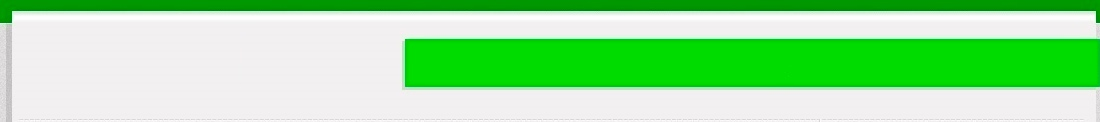
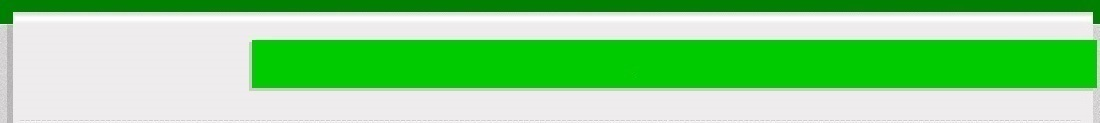
Fixed display issues.

Changed region(s): [[0.0, 0.0, 1.0, 1.0]]

diff --git a/css/style.css b/css/style.css
@@ -28,8 +28,8 @@ p a {
 
 iframe {
     display: block;
-    width:889px;
-    height:667px;
+    width:800px; /*889px;*/
+    height:600px; /*667px;*/
     margin:0 auto;
     /*-webkit-transform:scale(0.5);-moz-transform-scale(0.5);*/
 }
@@ -46,7 +46,7 @@ iframe {
 
 #arcadeheader {
 	background: url(../images/bg-header-expanded.jpg) no-repeat center top;
-	height: 122px;
+	height: 123px;
 	margin: 0 auto;
 	overflow: hidden;
 	width: 1100px;
@@ -333,7 +333,7 @@ iframe {
 
 #body div#aside ul li ul li p{
     
-    background: url(../images/arrow.gif) no-repeat left 9px;
+    background: url(../images/arrow-grey.jpg) no-repeat left 9px;
     display: block;
 	line-height: 24px;
 	padding: 0 0 0 15px;
